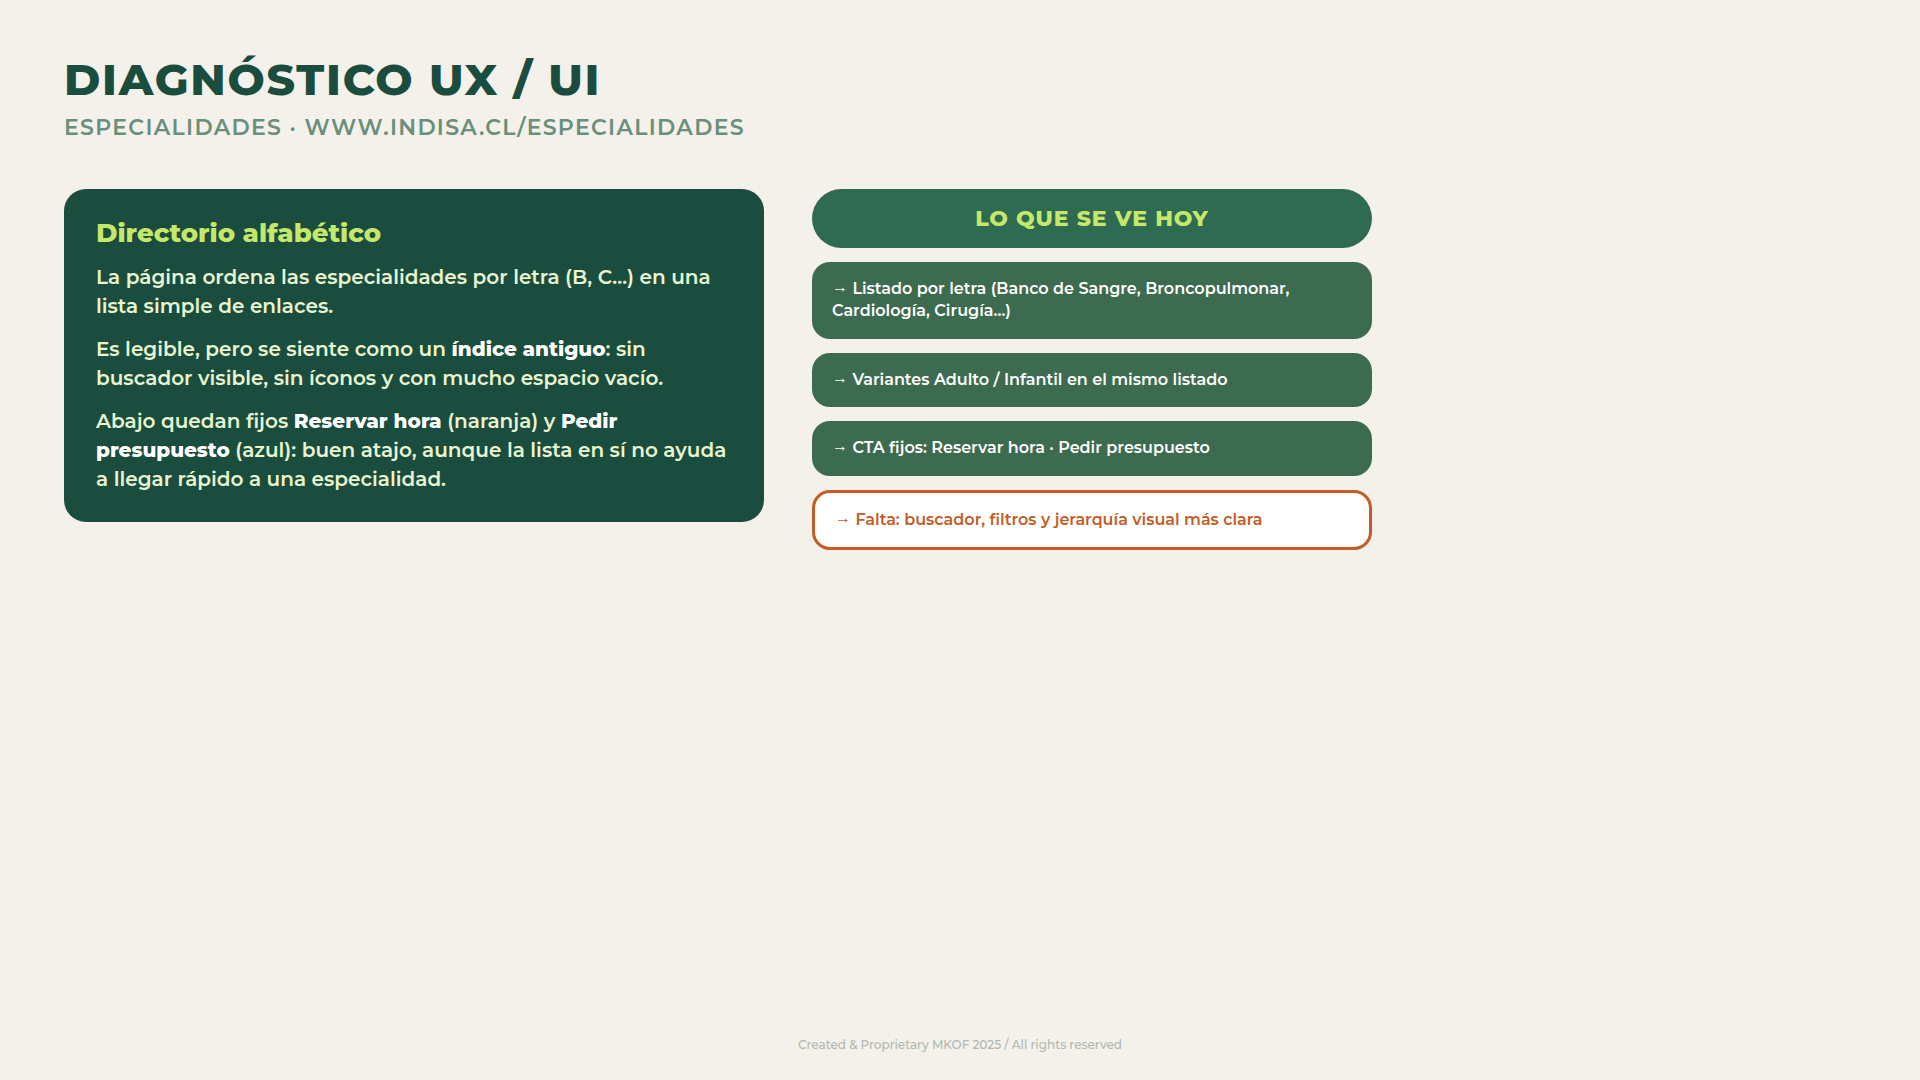
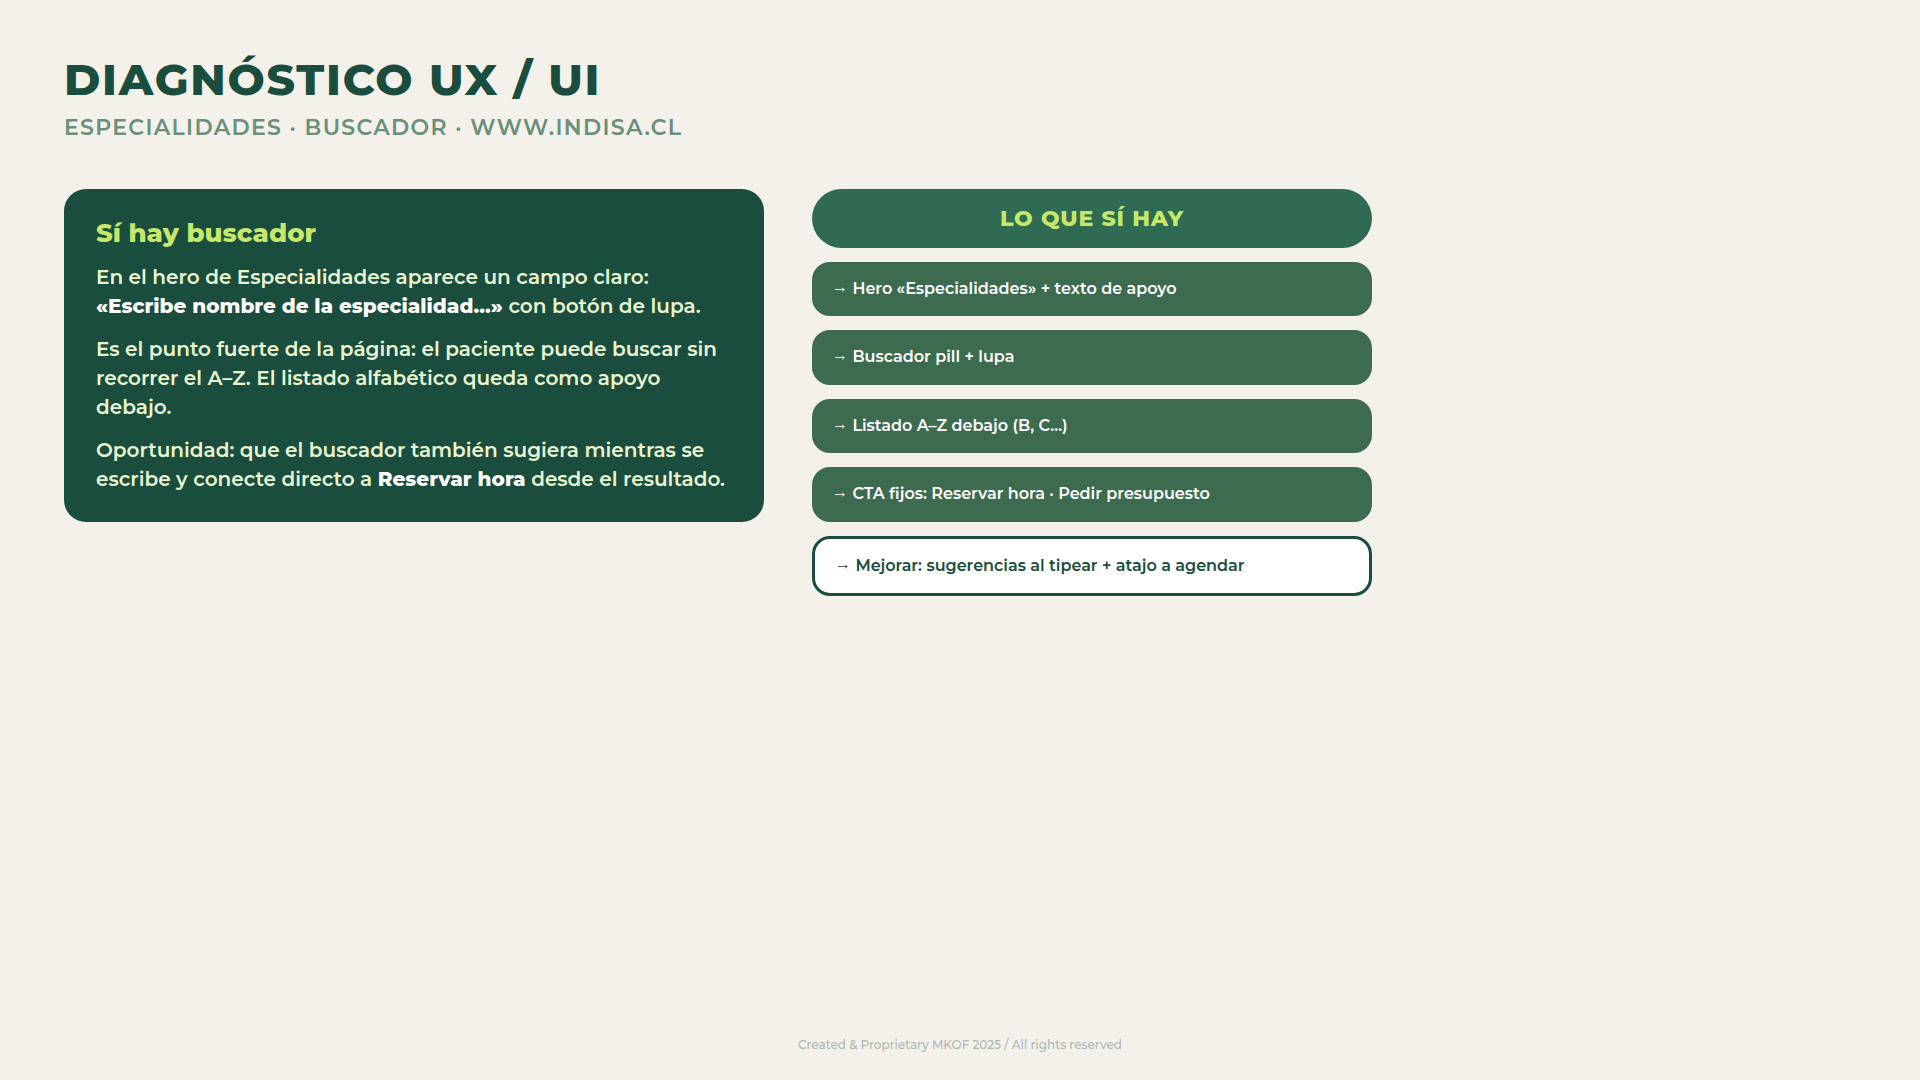
Corregir Especialidades: sí hay buscador en el hero
Actualiza lámina 04c y diagnóstico: el buscador es el acierto;
oportunidad = sugerencias + atajo a Reservar hora.

diff --git a/index/clientes/mkof/prospecto/clientes/clinica-indisa/UX-UI/laminas/04c-especialidades.html b/index/clientes/mkof/prospecto/clientes/clinica-indisa/UX-UI/laminas/04c-especialidades.html
@@ -2,27 +2,28 @@
 <html lang="es">
 <head>
   <meta charset="UTF-8">
-  <title>Especialidades · Indisa</title>
+  <title>Especialidades · Buscador · Indisa</title>
   <link rel="stylesheet" href="plantilla-mkof.css">
 </head>
 <body class="slide">
   <h1>DIAGNÓSTICO UX / UI</h1>
-  <div class="sub">ESPECIALIDADES · WWW.INDISA.CL/ESPECIALIDADES</div>
+  <div class="sub">ESPECIALIDADES · BUSCADOR · WWW.INDISA.CL</div>
 
   <div style="display:flex;gap:48px;margin-top:48px;align-items:flex-start">
     <div class="box" style="flex:1;max-width:700px">
-      <h2>Directorio alfabético</h2>
-      <p>La página ordena las especialidades por letra (B, C…) en una lista simple de enlaces.</p>
-      <p style="margin-top:14px">Es legible, pero se siente como un <b style="color:#fff">índice antiguo</b>: sin buscador visible, sin íconos y con mucho espacio vacío.</p>
-      <p style="margin-top:14px">Abajo quedan fijos <b style="color:#fff">Reservar hora</b> (naranja) y <b style="color:#fff">Pedir presupuesto</b> (azul): buen atajo, aunque la lista en sí no ayuda a llegar rápido a una especialidad.</p>
+      <h2>Sí hay buscador</h2>
+      <p>En el hero de Especialidades aparece un campo claro: <b style="color:#fff">«Escribe nombre de la especialidad…»</b> con botón de lupa.</p>
+      <p style="margin-top:14px">Es el punto fuerte de la página: el paciente puede buscar sin recorrer el A–Z. El listado alfabético queda como apoyo debajo.</p>
+      <p style="margin-top:14px">Oportunidad: que el buscador también sugiera mientras se escribe y conecte directo a <b style="color:#fff">Reservar hora</b> desde el resultado.</p>
     </div>
 
     <div style="width:560px;display:flex;flex-direction:column;gap:14px">
-      <div class="cap" style="text-align:center;width:100%">LO QUE SE VE HOY</div>
-      <div class="rec" style="padding:16px 20px;font-size:16px">→ Listado por letra (Banco de Sangre, Broncopulmonar, Cardiología, Cirugía…)</div>
-      <div class="rec" style="padding:16px 20px;font-size:16px">→ Variantes Adulto / Infantil en el mismo listado</div>
+      <div class="cap" style="text-align:center;width:100%">LO QUE SÍ HAY</div>
+      <div class="rec" style="padding:16px 20px;font-size:16px">→ Hero «Especialidades» + texto de apoyo</div>
+      <div class="rec" style="padding:16px 20px;font-size:16px">→ Buscador pill + lupa</div>
+      <div class="rec" style="padding:16px 20px;font-size:16px">→ Listado A–Z debajo (B, C…)</div>
       <div class="rec" style="padding:16px 20px;font-size:16px">→ CTA fijos: Reservar hora · Pedir presupuesto</div>
-      <div class="rec" style="padding:16px 20px;font-size:16px;background:#fff;color:#c45c26;border:3px solid #c45c26">→ Falta: buscador, filtros y jerarquía visual más clara</div>
+      <div class="rec" style="padding:16px 20px;font-size:16px;background:#fff;color:#1a4d3e;border:3px solid #1a4d3e">→ Mejorar: sugerencias al tipear + atajo a agendar</div>
     </div>
   </div>
 

diff --git a/index/clientes/mkof/prospecto/clientes/clinica-indisa/UX-UI/index.html b/index/clientes/mkof/prospecto/clientes/clinica-indisa/UX-UI/index.html
@@ -124,7 +124,7 @@
       <a class="ux-card" href="laminas/04c-especialidades.html" target="_blank" rel="noopener">
         <img src="laminas/04c-especialidades.png" alt="" loading="lazy" />
         <strong>04c · Especialidades</strong>
-        <span>Directorio A–Z · sin buscador</span>
+        <span>Buscador en hero + listado A–Z</span>
       </a>
       <a class="ux-card" href="laminas/05-referentes.html" target="_blank" rel="noopener">
         <img src="laminas/05-referentes.png" alt="" loading="lazy" />
